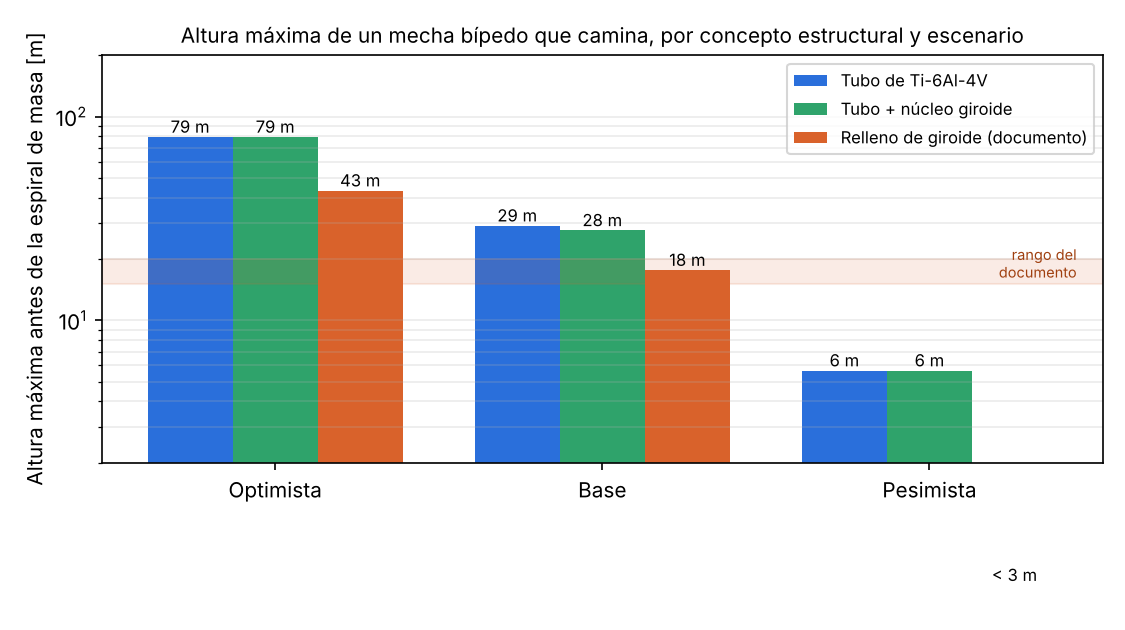
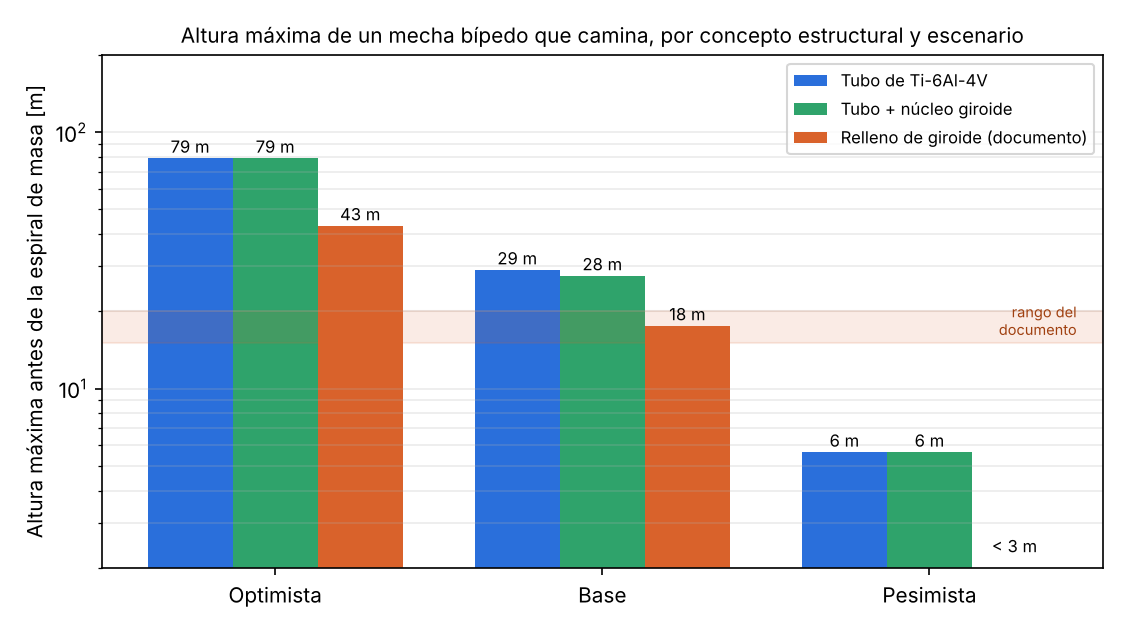
Añade la versión revisada del documento en Markdown y ajusta figuras y rótulos
Claude-Session: https://claude.ai/code/session_01UhhE4BLvjNtg6sQytUeW2i

diff --git a/sim/walk.py b/sim/walk.py
@@ -186,9 +186,16 @@ def overlay(img, label, t_human, x, sink):
     from PIL import Image, ImageDraw, ImageFont
     im = Image.fromarray(img)
     d = ImageDraw.Draw(im)
-    try:
-        font = ImageFont.load_default(size=22)
-    except TypeError:
+    font = None
+    for path in ("/usr/share/fonts/truetype/dejavu/DejaVuSans.ttf",
+                 "/usr/share/fonts/truetype/liberation/LiberationSans-Regular.ttf",
+                 "DejaVuSans.ttf", "Arial.ttf"):
+        try:
+            font = ImageFont.truetype(path, 20)
+            break
+        except OSError:
+            continue
+    if font is None:
         font = ImageFont.load_default()
     lines = [label] if label else []
     lines.append(f"avance: {x:5.1f} m")

diff --git a/docs/version_revisada.md b/docs/version_revisada.md
@@ -1,0 +1,197 @@
+# Mechas, ley cuadrado-cúbica y giroides: versión revisada y validada
+
+Revisión del 29 de octubre de 2026 del documento original, que se conserva sin cambios en la pestaña «Original». Cada afirmación se contrastó con fuentes primarias y los cálculos se comprobaron con simulaciones. El código, los datos, las figuras y los vídeos están en [github.com/dobleuber/realistic-mechas](https://github.com/dobleuber/realistic-mechas).
+
+
+## Resumen
+
+**Un mecha bípedo que camina puede medir unos 30 m con los materiales y actuadores actuales, en un escenario base realista.** Con supuestos optimistas el límite sube a unos 80 m; con los supuestos de la robótica actual baja a unos 6 m, que es el tamaño de lo que se ha construido. El límite no lo pone la estructura sino la masa de los actuadores y del sistema de energía, que crece más rápido que el propio mecha hasta que la masa deja de converger.
+
+El documento original acierta en que hoy no existe ningún humanoide gigante que camine, en que la hidráulica controlada por válvulas es ineficiente y en que el suelo blando es un problema serio. Sus dos tesis centrales no se sostienen. El giroide no compensa la ley cuadrado-cúbica: rellenar las piernas de giroide reduce la altura máxima de 29 m a 18 m. Y el suelo no es un límite universal: un mecha de 50 m camina sobre arena densa, arcilla dura o roca, aunque se hunde en arcilla blanda.
+
+Correcciones principales respecto al original:
+
+- Con un movimiento dinámicamente similar (mismo número de Froude), el par necesario crece con L⁴, no con L⁵. El déficit frente al par de los actuadores crece como mucho con L¹: es una ley de potencia, no un crecimiento exponencial.
+- El estudio del MIT de 2017 simuló grafeno por dinámica molecular; lo que se ensayó físicamente fueron giroides de polímero impresos. El propio artículo concluye que sus propiedades caen con la densidad más rápido que las de una espuma.
+- Con una densidad relativa del 20 %, un giroide de Ti-6Al-4V conserva un 5 % de la resistencia del material macizo. El original dice 8.9 %, y con la constante de su propia tabla serían 1.8 %. La resistencia por kilo de un giroide es siempre menor que la del macizo.
+- Al caminar, la fuerza del suelo es de 1.0 a 1.5 veces el peso. Las 2 a 3 veces del original corresponden a correr.
+- Los valores de 95 a 574 kPa son capacidades admisibles de un código residencial de 1995, con un factor de seguridad de unas 3 veces, no la resistencia del terreno. El granito intacto resiste más de 100 MPa.
+- Los actuadores electrohidrostáticos (EHA) llegan al 70–87 % de eficiencia en su mejor punto, pero en un ciclo de trabajo real están entre el 30 y el 60 %.
+
+## La ley cuadrado-cúbica en máquinas que caminan
+
+Si todas las dimensiones de un cuerpo se multiplican por k, las áreas crecen con k² y el volumen y la masa con k³ (Galileo, Dos nuevas ciencias, 1638). La tensión que produce el peso propio en una sección crece por tanto con k: a densidad constante, cualquier estructura acaba fallando bajo su propio peso si se agranda lo suficiente.
+
+Para el movimiento hay que decidir también cómo escala el tiempo. Exigir a un gigante la misma aceleración angular que a una persona, como hace el original, lleva a un par que crece con k⁵. Ni los animales ni las máquinas grandes se mueven así. Lo natural es la similitud dinámica, con el mismo número de Froude (v²/gL), en la que los tiempos crecen con √k; entonces el par necesario crece con m·L, es decir con k⁴ ([Oke et al. 2026](https://arxiv.org/abs/2603.22560)). Nuestra simulación lo confirma: el par pico de rodilla dividido entre peso × altura vale 0.126 tanto a 1.75 m como a 28 m.
+
+Un cilindro hidráulico a presión fija da una fuerza proporcional a su área (k²) y un par proporcional a fuerza por brazo de palanca (k³). Los motores eléctricos escalan de forma empírica entre k³ y k⁴. El déficit entre par necesario y par disponible crece entonces entre k⁰ y k¹: existe, pero es mucho menor que el que plantea el original.
+
+Los animales grandes no compensan la ley solo con huesos más gruesos. Entre 0.04 y 300 kg mantienen constante la tensión en los huesos cambiando de postura: caminan más erguidos y alinean las patas con la fuerza del suelo ([Biewener, Science 1989](https://doi.org/10.1126/science.2740914)). Por encima de unos 300 kg aparecen huesos proporcionalmente más gruesos y menos agilidad; los saurópodos de 50 a 80 t caminaban a menos de 2 m/s.
+
+
+### Lo que se ha construido
+
+Ningún bípedo de más de unas 1.5 t ha caminado libre y sin cable. El mayor robot que camina es Tradinno, un dragón cuadrúpedo de 11 t y 8.2 m de alto. LW Mononofu (8.5 m, 7.3 t) se desplaza sobre ruedas, y el Gundam de Yokohama (18 m, 25 t) cuelga de una estructura de soporte, no carga peso en las piernas y usa solo actuadores eléctricos. Las masas de estas máquinas caen entre nuestros escenarios base y pesimista.
+
+
+![masa_vs_altura.png](../results/figures/masa_vs_altura.png)
+
+
+## El giroide: qué es y qué puede hacer
+
+El giroide es una superficie mínima triplemente periódica que Alan Schoen describió en la NASA en 1970 ([NASA TN D-5541](https://ntrs.nasa.gov/citations/19700020472)). En fabricación aditiva se usa de dos formas: como una lámina engrosada sobre la superficie (giroide lámina) o rellenando uno de los dos laberintos que la superficie separa (giroide red). Se comportan como materiales distintos.
+
+
+### El estudio del MIT de 2017
+
+[Qin et al. (Science Advances, 2017)](https://pmc.ncbi.nlm.nih.gov/articles/PMC5218516) obtuvieron por dinámica molecular que un ensamblaje desordenado de grafeno con el 4.6 % de la densidad del acero tenía una resistencia a tracción 10 veces mayor. La compactación con calor y presión fue simulada, y los únicos ensayos físicos se hicieron con giroides de polímero impresos en 3D, unas 10⁷ veces más grandes. Su módulo simulado, 2.8 GPa, es alrededor del 1.4 % del del acero. Buehler sí dijo que «la geometría es el factor dominante», pero el artículo concluye también que las propiedades «disminuyen con la densidad mucho más rápido que las de las espumas poliméricas»: el módulo cae con ρ^2.7 y la resistencia con ρ^2.0 a ρ^3.0.
+
+
+### Leyes de Gibson-Ashby con datos reales
+
+Las propiedades de un sólido celular dependen de su densidad relativa ρ = ρ*/ρs según E*/Es = C₁·ρ^m y σ*/σs = C₂·ρ^n. La tabla compara las constantes del original con ensayos publicados y con nuestro análisis por elementos finitos, todos a ρ = 0.2.
+
+
+| Fuente | E*/Es | σ*/σs | Resistencia por kilo frente al macizo |
+|---|---|---|---|
+| Original, tabla (C₁ = 1.11, m = 2; C₂ = 0.197, n = 1.5) | 4.4 % | 1.8 % | 9 % |
+| Original, cálculo del texto (0.2^1.5) | – | 8.9 % | 45 % |
+| Ti-6Al-4V, giroide lámina (Naghavi et al. 2022) | 7.1 % | 5.2 % | 26 % |
+| Acero maraging, giroide red (Al-Ketan et al. 2018) | 0.9 % | 6.0 % | 30 % |
+| Nuestro FEA, giroide lámina | 6.9 % | 6.7 % (inicio de fluencia) | 34 % |
+| Nuestro FEA, giroide red | 2.9 % | 2.8 % (inicio de fluencia) | 14 % |
+
+En todos los casos la resistencia por kilo es menor que la del material macizo, y la teoría impide superarla: en cualquier material poroso σ*/σs ≤ ρ (cota de Voigt, [Wang et al., PNAS 2022](https://pmc.ncbi.nlm.nih.gov/articles/PMC9407660)). Para un miembro que soporta su propio peso, lo que cuenta es justamente esa resistencia por kilo, así que una pierna rellena de giroide aguanta menos altura, no más. [Evans, Hutchinson y Ashby (1998)](https://groups.seas.harvard.edu/hutchinson/papers/473.pdf) lo resumen: los metales celulares no aportan ventaja en diseños gobernados por la carga límite.
+
+Nuestro análisis por elementos finitos (homogenización periódica por vóxeles, con la malla convergida al 1 %) muestra además que el giroide lámina es casi isótropo (razón de Zener de 1.08 a 1.14) y el giroide red no lo es (de 1.3 a 2.3). La geometría suave tampoco elimina las concentraciones de tensión: a una densidad del 20 %, el 1 % más cargado del material soporta unas 15 veces la tensión aplicada.
+
+El giroide sí es útil como núcleo de paredes delgadas, donde impide el pandeo local; para absorber impactos, gracias a su meseta de deformación larga; y como intercambiador de calor.
+
+
+![giroide_fea.png](../results/figures/giroide_fea.png)
+
+
+## Materiales
+
+La fibra de carbono impresa en forma de giroide tiene los problemas que describe el original. [Saleh et al. (Polymers, 2022)](https://pmc.ncbi.nlm.nih.gov/articles/PMC9654767/) midieron que la fibra corta reduce la resistencia pico de los giroides de PLA, y las piezas con fibra continua se delaminan entre capas. Aun así, ya se han impreso giroides con fibra continua (Szederkényi et al. 2024), y un tubo de CFRP laminado, que es lo habitual en aeronáutica, no tiene esos problemas.
+
+El Ti-6Al-4V fundido por láser es anisótropo tal como sale de la impresora (fluencia de 761 a 820 MPa según la orientación) y su resistencia a fatiga baja a 210–300 MPa por la rugosidad superficial. Tras un prensado isostático en caliente (HIP) es isótropo, con una fluencia de 928 MPa y una fatiga de unos 450 MPa ([Mahmud et al. 2021](https://inldigitallibrary.inl.gov/sites/sti/sti/Sort_63131.pdf)). El pasaje del original sobre las «bisagras plásticas» procede de un estudio con titanio comercialmente puro (Ataee et al. 2018), y una bisagra plástica es deformación plástica, no elástica. Entre las estructuras de lámina, el diamante suele superar al giroide.
+
+Con el modelo de dimensionado (tubo de pared delgada, escenario base), la altura máxima por material es de 33 m para el CFRP laminado, 29 m para el Ti-6Al-4V con HIP, 25 m para el acero 4340, 23 m para el aluminio 7075-T6 y 22 m para el Ti-6Al-4V sin HIP. El material importa, pero menos que la arquitectura de la pieza.
+
+
+## Actuación, energía y calor
+
+La hidráulica controlada por válvulas tiene una eficiencia media del 22 %, y del 14 % en maquinaria móvil ([ORNL/TM-2011/14](https://info.ornl.gov/sites/publications/files/pub28014.pdf)). Los EHA llegan al 70–87 % en su mejor punto, pero la mayoría de los puntos de un ciclo real de robot están entre el 30 y el 60 % (Du et al. 2024 y 2026). Los robots hidráulicos trabajan a 16–21 MPa (Atlas, HyQ).
+
+El problema de escala de los actuadores no es su fuerza sino su masa. La masa de un cilindro es proporcional al trabajo de su carrera (fuerza por carrera), que crece con k⁴: un gato industrial de 700 bar pesa de 0.24 a 0.34 kg por kJ, y un actuador de robótica de 2 a 3 kg por kJ. La potencia de la marcha crece con k^3.5, y un grupo diésel con su bomba rinde de 0.10 a 0.15 kW/kg. Ambas fracciones de masa crecen con la altura: en el escenario base, los actuadores de las piernas y el sistema de energía suman el 32 % de la masa a 20 m y el 42 % a 28 m.
+
+Como intercambiador de calor, el giroide sí da números de Nusselt altos, de 8 a 10 veces los de un haz de barras ([Prussack et al. 2024](https://www.osti.gov/biblio/2396699)), pero con un factor de fricción unas 90 veces mayor, que se paga en potencia de bombeo de un aceite viscoso. El diamante o el Schwarz-D suelen ser iguales o mejores. Tampoco es un fractal.
+
+
+![desglose_masa.png](../results/figures/desglose_masa.png)
+
+
+## El suelo
+
+Los valores del original (95, 144, 239, 287 y 574 kPa) coinciden con la tabla del código residencial estadounidense CABO de 1995. Son capacidades admisibles de diseño para viviendas, con un factor de seguridad de unas 3 veces y pensadas para limitar asentamientos, no el punto de rotura. El granito intacto resiste más de 100 a 250 MPa, el [código de Nueva York](https://www.nyc.gov/assets/buildings/codes-pdf/cons_codes_2022/2022BC_Chapter18_SoilsFoundationsWBwm.pdf) admite 5.7 MPa sobre roca sana y el de Hong Kong hasta 12.5 MPa. Las excavadoras de la clase de la Bagger 288 trabajan a unos 170 kPa, por encima del valor de código para arena y grava.
+
+La capacidad portante última depende del tipo de suelo (Terzaghi, con los factores de Vesić). En arcilla saturada cargada con rapidez vale unas 5.14 veces su resistencia al corte y no depende del tamaño del pie, así que un mecha más grande acaba superándola. En arena y grava crece con el ancho del pie: si el pie crece en proporción, la presión y la capacidad crecen igual.
+
+La tabla aplica esto a un mecha con la densidad de un cuerpo humano (13 kg/m³ × H³) y pies de proporciones humanas, apoyado en un solo pie con 1.3 veces su peso, y lo compara con la simulación con suelo deformable.
+
+
+| Suelo | Mecha de 20 m (104 t), 398 kPa | Mecha de 50 m (1630 t), 996 kPa |
+|---|---|---|
+| Arcilla blanda (cu = 25 kPa) | Capacidad 138 kPa. Simulación: se hunde 1.4 m y cae | Capacidad 138 kPa. Simulación: se hunde 10.5 m y cae |
+| Arcilla firme (cu = 75 kPa) | Capacidad 413 kPa. Simulación: camina | Capacidad 413 kPa. Hundimiento calculado de unos 19 m |
+| Arcilla dura (cu = 150 kPa) | Capacidad 825 kPa | Capacidad 825 kPa. Simulación: camina |
+| Arena densa | Capacidad 697 kPa. Simulación: camina | Capacidad 1743 kPa. Simulación: camina |
+| Granito sano | Más de 17 MPa | Más de 17 MPa. Simulación: camina |
+
+El original acierta en que un mecha gigante se hundiría en suelos blandos, pero no en que «rompería la corteza» ni en que hundiría los pies en el pavimento o la roca. Tampoco aparece en la fuente citada que los pies tendrían que ser «del tamaño de estadios»: incluso para 14 200 t harían falta unos 3600 m² por pie sobre arena, unos 60 por 60 m.
+
+
+![presion_suelo.png](../results/figures/presion_suelo.png)
+
+
+## Simulaciones
+
+Para comprobar el análisis se construyeron tres herramientas, todas disponibles en el repositorio:
+
+- **Elementos finitos de celdas giroides.** Homogenización periódica por vóxeles para obtener la rigidez, la anisotropía y la concentración de tensiones de giroides lámina y red entre el 10 y el 50 % de densidad.
+- **Modelo de dimensionado del mecha.** Para cada altura diseña las piernas (tubos con pandeo local según NASA SP-8007, o secciones rellenas de giroide según Gibson-Ashby), los cilindros hidráulicos, el grupo de potencia y el combustible, y resuelve la masa de forma autoconsistente. Si la masa no converge, esa altura no se puede construir.
+- **Simulación física de la marcha** en MuJoCo, con verificación cruzada en Gazebo Harmonic. Es un bípedo con las proporciones y masas del cuerpo humano (tablas de Winter) que camina con control predictivo del punto de momento cero (Kajita et al. 2003), con el par de cada articulación limitado al de su actuador y un suelo que se hunde según su capacidad portante.
+
+### Similitud dinámica
+
+Escalando el tiempo con √H, el mismo plan de marcha produce los mismos pares normalizados a cualquier altura: 0.126 en la rodilla, 0.091 en el tobillo y 0.067 en la cadera, en unidades de peso por altura, con una fuerza pico sobre el suelo de 1.35 veces el peso, dentro del rango medido en personas (de 1.0 a 1.5). En unidades humanas son 2.2, 1.6 y 1.1 N·m/kg, frente a 0.9, 1.6 y 0.9 N·m/kg medidos en personas; la rodilla trabaja más porque los robots caminan con las rodillas flexionadas.
+
+
+### Resultados
+
+
+| Caso | MuJoCo | Gazebo |
+|---|---|---|
+| Persona de referencia (1.75 m, 70 kg) | Camina 1.86 m | Camina 1.86 m |
+| Mecha de 20 m, diseño base (9.5 t) | Camina 21.3 m a 0.93 m/s; potencia pico 102 kW | Camina 21.3 m |
+| Mecha de 28 m, diseño base (47 t) | Camina 29.8 m a 1.11 m/s; potencia pico 603 kW | Camina 29.8 m |
+| 20 m con actuadores al 50–90 % del par necesario | Cae | Cae (probado al 70 %) |
+| 20 m con densidad humana en arcilla blanda | Se hunde 1.4 m y cae | No simulado |
+| 50 m con densidad humana en arena densa, arcilla dura o granito | Camina | No simulado |
+
+Con actuadores por debajo del 100 % del par pico necesario el mecha cae, y con el 100 % o más camina: no hay margen para ahorrar masa en los actuadores. Como esa masa crece con k⁴, es la que fija la altura máxima.
+
+
+![simulaciones.png](../results/figures/simulaciones.png)
+
+Vídeos en el repositorio: [marcha a 20 m](https://github.com/dobleuber/realistic-mechas/blob/main/results/videos/e1_marcha_H20.mp4), [marcha a 28 m](https://github.com/dobleuber/realistic-mechas/blob/main/results/videos/e1_marcha_H28.mp4), [actuadores al 60 %](https://github.com/dobleuber/realistic-mechas/blob/main/results/videos/e2_par_60pct_H20.mp4), [20 m en arcilla blanda](https://github.com/dobleuber/realistic-mechas/blob/main/results/videos/e3_arcilla_blanda_H20.mp4), [50 m en arcilla blanda](https://github.com/dobleuber/realistic-mechas/blob/main/results/videos/e3_arcilla_blanda_H50.mp4) y [50 m en arena densa](https://github.com/dobleuber/realistic-mechas/blob/main/results/videos/e3_arena_densa_H50.mp4).
+
+
+## Conclusión: cuánto puede medir un mecha
+
+La tabla da la altura a la que la masa deja de converger para tres conceptos de pierna y tres escenarios.
+
+
+| Piernas | Optimista | Base | Pesimista |
+|---|---|---|---|
+| Tubo de Ti-6Al-4V de pared delgada | 79 m | 29 m | 6 m |
+| Tubo con núcleo de giroide | 79 m | 28 m | 6 m |
+| Sección rellena de giroide (propuesta original) | 43 m | 18 m | Menos de 3 m |
+
+Escenario optimista: actuadores de 0.24 kg/kJ, grupo de potencia de 300 W/kg, eficiencia del 60 % y márgenes de seguridad mínimos. Base: 0.5 kg/kJ, 150 W/kg, 45 % y factor de carga de diseño de 1.5. Pesimista: actuadores de la robótica actual (2 kg/kJ), 100 W/kg y 30 %.
+
+La estimación del original, de 15 a 20 m, cae dentro de este rango, pero por razones distintas. Un mecha de unos 30 m que camine despacio, a alrededor de 1 m/s, es físicamente posible con tubos de pared delgada de titanio o fibra de carbono, actuadores hidráulicos y pies de proporciones normales sobre suelo firme. Lo que lo limita es la masa de los actuadores y de la energía, no la resistencia de la estructura ni la roca bajo sus pies. En suelos blandos necesitaría pies varias veces más grandes que los proporcionales.
+
+
+![altura_maxima.png](../results/figures/altura_maxima.png)
+
+
+## Limitaciones
+
+- La marcha simulada es lenta y con los pies planos (número de Froude de alrededor de 0.01), como la de los humanoides grandes actuales. Correr multiplicaría las cargas por 2 o 3.
+- El suelo deformable es un modelo cuasi-estático de punzonamiento: sirve para decidir si el mecha se hunde, no para predecir la forma de la huella.
+- El análisis por elementos finitos es lineal: da el inicio de la plastificación, no la resistencia última. Para la resistencia se usan los ensayos publicados.
+- No se modelan la fatiga de las uniones, el control del equilibrio ante empujones o caídas, ni la gestión térmica detallada.
+
+## Fuentes principales
+
+La verificación completa, afirmación por afirmación, está en [docs/verificacion_fuentes.md](https://github.com/dobleuber/realistic-mechas/blob/main/docs/verificacion_fuentes.md).
+
+- Qin, Jung, Kang y Buehler (2017). The mechanics and design of a lightweight three-dimensional graphene assembly. Science Advances 3:e1601536. [PMC5218516](https://pmc.ncbi.nlm.nih.gov/articles/PMC5218516)
+- Naghavi et al. (2022). Bioengineering 9:504. [PMC9598079](https://pmc.ncbi.nlm.nih.gov/articles/PMC9598079/)
+- Al-Ketan, Rowshan y Abu Al-Rub (2018). Topology-mechanical property relationship of 3D printed strut, skeletal, and sheet based periodic metallic cellular materials. Additive Manufacturing 19:167.
+- Wang et al. (2022). PNAS 119:e2119536119. [PMC9407660](https://pmc.ncbi.nlm.nih.gov/articles/PMC9407660)
+- Evans, Hutchinson y Ashby (1998). Cellular metals. Current Opinion in Solid State and Materials Science 3:288.
+- Saleh, Anwar, Al-Ahmari y Alfaify (2022). Compression Performance and Failure Analysis of 3D-Printed Carbon Fiber/PLA Composite TPMS Lattice Structures. Polymers 14:4595. [PMC9654767](https://pmc.ncbi.nlm.nih.gov/articles/PMC9654767/)
+- Mahmud et al. (2021). Metals 11:1671. [INL](https://inldigitallibrary.inl.gov/sites/sti/sti/Sort_63131.pdf)
+- Biewener (1989). Scaling body support in mammals: limb posture and muscle mechanics. Science 245:45.
+- Oke et al. (2026). Allometric Scaling Laws for Bipedal Robots. [arXiv:2603.22560](https://arxiv.org/abs/2603.22560)
+- Nilsson y Thorstensson (1989). Ground reaction forces at different speeds of human walking and running. Acta Physiologica Scandinavica 136:217.
+- Love, Lanke y Alles (2012). Estimating the impact of the US fluid power industry. ORNL/TM-2011/14.
+- Prussack et al. (2024). Applied Thermal Engineering. [OSTI 2396699](https://www.osti.gov/biblio/2396699)
+- Código de construcción de Nueva York 2022, capítulo 18; GEO TGN 53 (Hong Kong, 2026); tabla CABO 1995.
+- Vulović et al. (2023). Strength analysis of eight-wheel bogie of bucket wheel excavator. Metals 13:466.
+- Kajita et al. (2003). Biped walking pattern generation by using preview control of zero-moment point. ICRA.
+- Winter (2009). Biomechanics and Motor Control of Human Movement, 4.ª ed. Wiley.
+

diff --git a/README.md b/README.md
@@ -41,8 +41,10 @@ altura máxima (≈18 m frente a ≈29 m de un tubo de titanio de pared delgada)
    - Los 574 kPa «del granito» del documento son un valor admisible de un código
      residencial, no la resistencia de la roca (que es de >100 MPa).
 5. **Similitud dinámica verificada.** Con escala de Froude (tiempo ∝ √H), los
-   pares normalizados son idénticos de 1.75 m a 28 m. MuJoCo y Gazebo
-   coinciden en la distancia recorrida en todos los casos (diferencia < 0.1 %).
+   pares normalizados son idénticos de 1.75 m a 28 m.
+   - En los casos en que el mecha camina, MuJoCo y Gazebo coinciden en la
+     distancia recorrida con una diferencia menor del 0.1 %.
+   - Con actuadores al 70 % del par necesario, los dos se caen.
 
 La verificación afirmación por afirmación, con enlaces a las fuentes, está en
 [`docs/verificacion_fuentes.md`](docs/verificacion_fuentes.md).
@@ -152,7 +154,7 @@ python3.12 gazebo/run_gazebo.py gazebo/out_H20 --no-server
 |---|---|---|
 | Humano 1.75 m | camina 1.86 m | camina 1.86 m |
 | 20 m, diseño | camina 21.27 m | camina 21.28 m |
-| 28 m, diseño | camina 29.78 m | camina 29.80 m |
+| 28 m, diseño | camina 29.78 m | camina 29.79 m |
 | 20 m, par al 70 % | cae | cae |
 
 ## Vídeos
@@ -164,7 +166,7 @@ python3.12 gazebo/run_gazebo.py gazebo/out_H20 --no-server
 | `results/videos/e1_marcha_H28.mp4` | Mecha de 28 m, al borde de la espiral de masa (≈47 t) |
 | `results/videos/e2_par_60pct_H20.mp4` | 20 m con actuadores al 60 % del par necesario: cae |
 | `results/videos/e3_arcilla_blanda_H20.mp4` | 20 m con densidad humana (104 t) en arcilla blanda: se hunde y cae |
-| `results/videos/e3_arcilla_blanda_H50.mp4` | 50 m (1600 t) en arcilla blanda: se hunde ~13 m |
+| `results/videos/e3_arcilla_blanda_H50.mp4` | 50 m (1600 t) en arcilla blanda: se hunde ~10 m y cae |
 | `results/videos/e3_arena_densa_H50.mp4` | 50 m (1600 t) en arena densa: camina |
 
 Los vídeos se reproducen con el tiempo de una persona: un segundo de vídeo son
